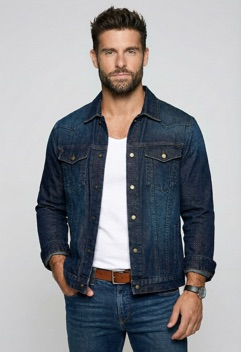
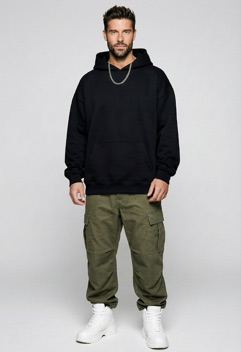
Redraw the man's slim, average, streetwear and boho option pictures
MiniMax H3 Image has no negative prompt, and the glamour prompt pulled the man
towards a fitness model: slim and average looked like athletic, and streetwear,
boho and casual all wore a denim jacket. The man gets his own wording for these
four options (a dad bod with a soft belly, a skinny lanky frame, a plain hoodie
with cargo pants and sneakers, a linen shirt with beads and sandals), and the
four pictures are redrawn with it.

diff --git a/Sources/CharacterCore/CharacterOptionVisuals.swift b/Sources/CharacterCore/CharacterOptionVisuals.swift
@@ -125,8 +125,14 @@ extension CharacterOptions {
         "hairStyle/short/woman": ("a short pixie cut", "long hair, shoulder-length hair"),
         "hairStyle/bob/man": ("a chin-length bob haircut", "full body, short hair"),
         "body/slim": ("a very slim, thin, slender body and a narrow frame", "muscular, abs, curvy, fat"),
+        // MiniMax has no negative prompt, and "glamour" pulls the man towards a fitness model: say what he isn't
+        "body/slim/man": ("a skinny, scrawny, lanky body: bony narrow shoulders, thin bony arms, a flat stomach with "
+                          + "no abs at all and no muscle definition, visible ribs and collarbones, a long thin neck",
+                          "muscular, abs, six-pack, bodybuilder, broad shoulders"),
         "body/athletic": ("an athletic, toned, fit body", "fat, skinny"),
         "body/average": ("an ordinary everyday body, soft untoned stomach", "abs, six-pack, muscular, fitness model, skinny"),
+        "body/average/man": ("a dad bod: an ordinary out-of-shape body with a soft round belly that hangs a little over "
+                             + "the waistband, a soft chest, no visible abs at all and no muscle definition", "abs, six-pack, muscular, fitness model, skinny"),
         "body/curvy": ("a curvy body with a full bust and full rounded hips", "skinny, abs, muscular"),
         "body/curvy/man": ("a soft, stocky body with a little belly", "abs, six-pack, muscular, fitness model"),
         "body/muscular": ("a very muscular bodybuilder physique, big muscles", "skinny, fat"),
@@ -149,6 +155,12 @@ extension CharacterOptions {
         "figure/toned-arms": ("toned, muscular arms", "thin arms"),
         "figure/broad-chest": ("a very broad, big, muscular chest", "narrow chest, skinny"),
         "figure/hairy-chest": ("a very hairy chest, thick chest hair", "hairless chest, smooth chest, bodybuilder"),
+        "clothes/streetwear/man": ("streetwear: an oversized plain black hoodie with no print or text, a silver chain, baggy olive cargo "
+                                   + "pants and chunky white high-top sneakers, no jacket, no denim",
+                                   "denim, jeans, denim jacket, shirt"),
+        "clothes/boho/man": ("boho style: a loose white linen shirt open at the chest, layered wooden bead necklaces "
+                             + "and leather bracelets, wide light beige linen trousers and leather sandals, no denim",
+                             "denim, jeans, denim jacket, t-shirt"),
         "extras/freckles": ("lots of freckles across the nose and cheeks", ""),
         "extras/tattoos": ("sleeve tattoos covering both arms and a neck tattoo", ""),
         "extras/piercings": ("a big silver nose ring, a lip ring and several silver ear piercings", "no jewelry"),

diff --git a/Tests/CharacterCoreTests/CharacterOptionVisualsTests.swift b/Tests/CharacterCoreTests/CharacterOptionVisualsTests.swift
@@ -84,6 +84,12 @@ import Testing
         #expect(CO.examplePrompt(category: "body", option: "curvy", gender: "man").contains("stocky"))
         #expect(CO.examplePrompt(category: "body", option: "curvy", gender: "woman").contains("full rounded hips"))
         #expect(CO.examplePrompt(category: "extras", option: "tattoos", gender: "man").contains("waist-up"))
+        // The man's own wording wins for options that came out alike (MiniMax has no negative prompt)
+        #expect(CO.examplePrompt(category: "body", option: "average", gender: "man").contains("no visible abs at all"))
+        #expect(CO.examplePrompt(category: "body", option: "slim", gender: "man").contains("skinny"))
+        #expect(CO.examplePrompt(category: "clothes", option: "streetwear", gender: "man").contains("hoodie"))
+        #expect(CO.examplePrompt(category: "clothes", option: "boho", gender: "man").contains("linen shirt"))
+        #expect(CO.examplePrompt(category: "clothes", option: "boho", gender: "woman").contains("linen") == false)
         #expect(CO.examplePrompt(category: "nope", option: "x", gender: "woman") == "")
         #expect(CO.examplePrompt(category: "bust", option: "nope", gender: "woman") == "")
     }
